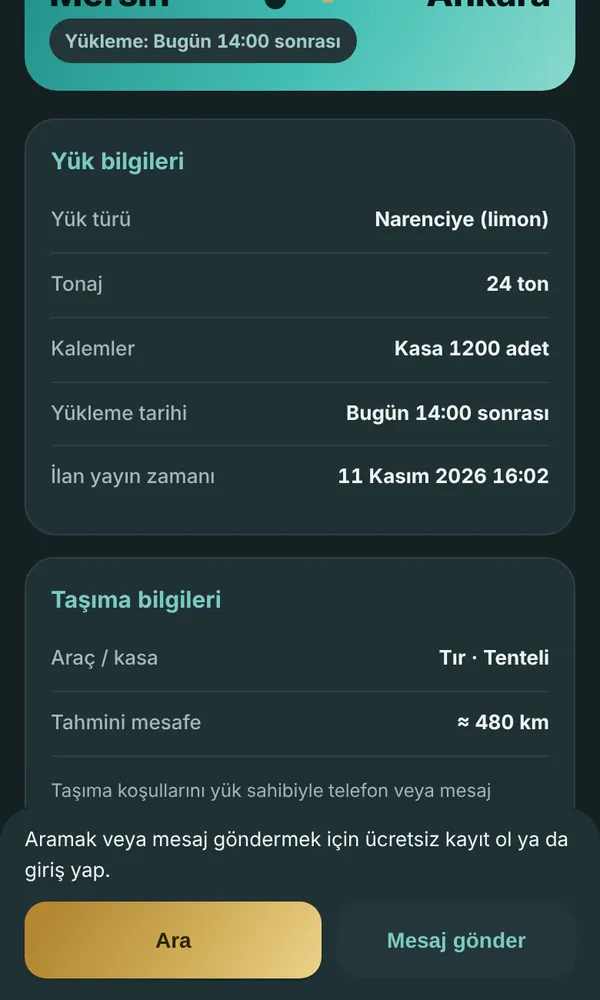
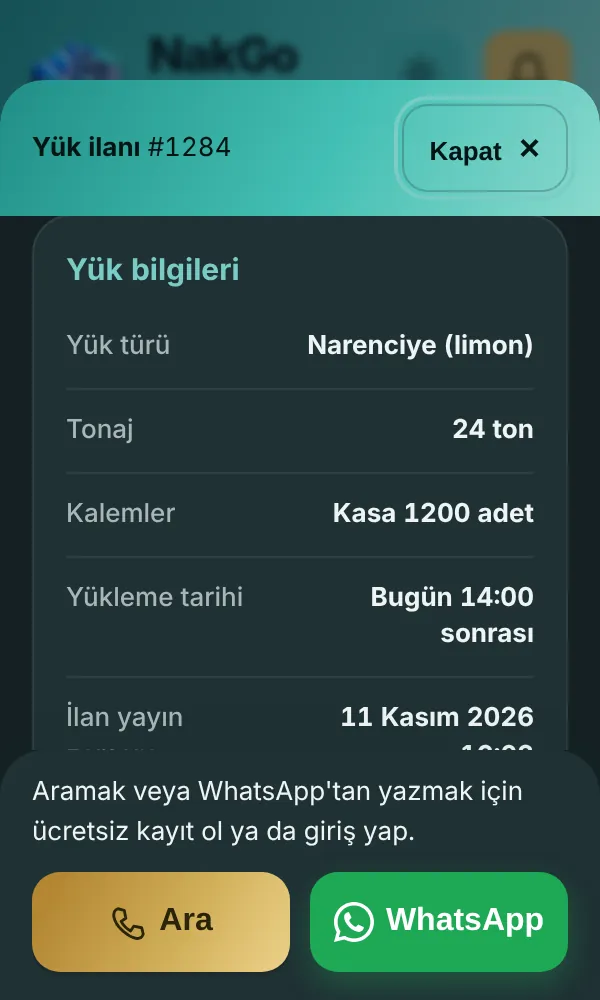
Describe Call and WhatsApp instead of retired in-app messaging (#74)
- Intro, help, account and listing texts no longer promise in-app
  messages; the privacy answer now says listing phones are shown only to
  signed-in users for Call and WhatsApp.
- Intro detail screenshots regenerated with the new contact buttons.

Claude-Session: https://claude.ai/code/session_01DguPnpwU1zxqg63RvGAajo

diff --git a/index.html b/index.html
@@ -2317,7 +2317,7 @@ const FI = '<svg width="16" height="16" viewBox="0 0 24 24" fill="none" stroke="
 const D = [[450, 480, 155, 700, 660, 940, 1130, 790, 740, 1100, 950], [580, 380, 540, 260, 490, 680, 320, 410, 780, 480], [330, 470, 580, 920, 1100, 830, 980, 1350, 850], [620, 520, 850, 1050, 700, 700, 1050, 800], [320, 550, 850, 640, 850, 1250, 480], [340, 640, 330, 700, 1050, 330], [330, 350, 760, 1100, 70], [460, 850, 1000, 340], [500, 720, 420], [340, 810], [1130]];
 
 // İlk açılış tanıtımı: [ekran görüntüsü, başlık, metin, görüntü açıklaması]. Görüntüler icons/onboarding içinde.
-const SL = [["list", "Yük bul, araç bul", "Yük sahipleri ilan verir, taşıyıcılar boş aracını duyurur. Aracın boş kalmasın, yükün beklemesin.", "İlanlar ekranı: rota arama ve Mersin–Ankara yük ilanı"], ["calc", "Giderini önceden planla", "Mesafeyi ve tüketimi gir; mazot ve yol giderini yola çıkmadan gör.", "Mazot ve Gider Hesaplama ekranı: tahmini toplam gider"], ["detail", "İlan sahibine doğrudan ulaş", "İlanlara giriş yapmadan göz at. Aramak ve mesaj göndermek için ücretsiz hesap aç.", "İlan detayı: taşıma bilgileri ile Ara ve Mesaj gönder düğmeleri"]];
+const SL = [["list", "Yük bul, araç bul", "Yük sahipleri ilan verir, taşıyıcılar boş aracını duyurur. Aracın boş kalmasın, yükün beklemesin.", "İlanlar ekranı: rota arama ve Mersin–Ankara yük ilanı"], ["calc", "Giderini önceden planla", "Mesafeyi ve tüketimi gir; mazot ve yol giderini yola çıkmadan gör.", "Mazot ve Gider Hesaplama ekranı: tahmini toplam gider"], ["detail", "İlan sahibine doğrudan ulaş", "İlanlara giriş yapmadan göz at. Aramak veya WhatsApp'tan yazmak için ücretsiz hesap aç.", "İlan detayı: taşıma bilgileri ile Ara ve WhatsApp düğmeleri"]];
 
 const PLANS = [{ id: "m", name: "Aylık", price: 299, days: 30 }, { id: "y", name: "Yıllık", price: 3099, days: 365 }];
 
@@ -2325,7 +2325,7 @@ const TTL = { load: 14, truck: 7, offer: 3 };
 
 const SUPPORT_MAIL = "destek@nakgolojistik.com";
 
-const FAQ = [["NakGo'yu kullanmak ücretli mi?", "İlanları görmek, kayıt olmak ve ilan vermek şu an ücretsizdir."], ["İlanları görmek için kayıt olmam gerekir mi?", "Hayır. Açık ilanları herkes görebilir. İlan sahibiyle iletişime geçmek ve ilan vermek için ücretsiz hesap gerekir."], ["İlan sahibiyle nasıl iletişime geçerim?", "Giriş yaptıktan sonra ilan detayındaki Mesaj gönder düğmesiyle uygulama içinden yazabilirsin."], ["İlanımı nasıl verir ve yönetirim?", "İlan ver sekmesinden yük veya boş araç ilanı oluştur. İlanlarını Profil'deki İlanlarım bölümünden düzenleyebilir veya kapatabilirsin."], ["Mazot ve Gider Hesaplama ne işe yarar?", "Mesafe, tüketim ve litre fiyatını girerek yolun yaklaşık giderini hesaplar. Sonuç tahminidir."], ["Şüpheli bir ilan görürsem ne yapmalıyım?", "İlan numarasıyla birlikte destek adresimize yaz; ilanı inceleriz."], ["Verilerim nerede tutuluyor?", "Hesap, ilan ve mesaj bilgilerin NakGo sunucularında saklanır. Telefon numaran ilanlarda herkese açık gösterilmez."]];
+const FAQ = [["NakGo'yu kullanmak ücretli mi?", "İlanları görmek, kayıt olmak ve ilan vermek şu an ücretsizdir."], ["İlanları görmek için kayıt olmam gerekir mi?", "Hayır. Açık ilanları herkes görebilir. İlan sahibiyle iletişime geçmek ve ilan vermek için ücretsiz hesap gerekir."], ["İlan sahibiyle nasıl iletişime geçerim?", "Giriş yaptıktan sonra ilan detayındaki Ara veya WhatsApp düğmesiyle ilan sahibine doğrudan ulaşabilirsin."], ["İlanımı nasıl verir ve yönetirim?", "İlan ver sekmesinden yük veya boş araç ilanı oluştur. İlanlarını Profil'deki İlanlarım bölümünden düzenleyebilir veya kapatabilirsin."], ["Mazot ve Gider Hesaplama ne işe yarar?", "Mesafe, tüketim ve litre fiyatını girerek yolun yaklaşık giderini hesaplar. Sonuç tahminidir."], ["Şüpheli bir ilan görürsem ne yapmalıyım?", "İlan numarasıyla birlikte destek adresimize yaz; ilanı inceleriz."], ["Verilerim nerede tutuluyor?", "Hesap ve ilan bilgilerin NakGo sunucularında saklanır. İlanındaki telefon numarası yalnızca giriş yapmış kullanıcılara Ara ve WhatsApp için gösterilir; misafirler göremez."]];
 
 /* Öne çıkan ilan ve boş araç ilanı: sabit fiyat listesi, saate göre değişmez. Ürün kuralları docs/product.md içinde. */
 const FEAT = { prices: { l: { 3: 19, 6: 32, 12: 61, 24: 99, 72: 267 }, t: { 3: 19, 6: 32, 12: 61, 24: 99, 72: 267 } } };
@@ -4373,7 +4373,7 @@ function openOnb() {
             $("#ob-next").focus({ preventScroll: true });
         }
         else {
-            el.innerHTML = `${top(i)}<div class="ob-body ob-roles"><h2 id="ob-title">Seni tanıyalım</h2><p>Ana sayfanı buna göre hazırlayalım. Sonra profilinden değiştirebilirsin.</p><button class="rolebtn" id="r-c"><span class="role-ic" aria-hidden="true"><svg width="26" height="26" viewBox="0 0 24 24" fill="none" stroke="currentColor" stroke-width="1.8" stroke-linecap="round" stroke-linejoin="round"><path d="M1 6h13v10H1zM14 10h4l3 3v3h-7"/><circle cx="5" cy="18" r="2"/><circle cx="17" cy="18" r="2"/></svg></span><span class="role-txt"><b>Taşıyıcıyım</b><span>Aracım var, yük arıyorum</span></span></button><button class="rolebtn" id="r-o"><span class="role-ic" aria-hidden="true"><svg width="26" height="26" viewBox="0 0 24 24" fill="none" stroke="currentColor" stroke-width="1.8" stroke-linecap="round" stroke-linejoin="round"><path d="M21 8l-9-5-9 5v8l9 5 9-5zM3 8l9 5 9-5M12 13v8"/></svg></span><span class="role-txt"><b>Yük sahibiyim</b><span>Taşıtacak yüküm var</span></span></button><p class="ob-note">Kayıt olmadan ilanlara göz atabilirsin. Aramak ve mesaj göndermek için ücretsiz hesap gerekir.</p></div>${dots(3)}`;
+            el.innerHTML = `${top(i)}<div class="ob-body ob-roles"><h2 id="ob-title">Seni tanıyalım</h2><p>Ana sayfanı buna göre hazırlayalım. Sonra profilinden değiştirebilirsin.</p><button class="rolebtn" id="r-c"><span class="role-ic" aria-hidden="true"><svg width="26" height="26" viewBox="0 0 24 24" fill="none" stroke="currentColor" stroke-width="1.8" stroke-linecap="round" stroke-linejoin="round"><path d="M1 6h13v10H1zM14 10h4l3 3v3h-7"/><circle cx="5" cy="18" r="2"/><circle cx="17" cy="18" r="2"/></svg></span><span class="role-txt"><b>Taşıyıcıyım</b><span>Aracım var, yük arıyorum</span></span></button><button class="rolebtn" id="r-o"><span class="role-ic" aria-hidden="true"><svg width="26" height="26" viewBox="0 0 24 24" fill="none" stroke="currentColor" stroke-width="1.8" stroke-linecap="round" stroke-linejoin="round"><path d="M21 8l-9-5-9 5v8l9 5 9-5zM3 8l9 5 9-5M12 13v8"/></svg></span><span class="role-txt"><b>Yük sahibiyim</b><span>Taşıtacak yüküm var</span></span></button><p class="ob-note">Kayıt olmadan ilanlara göz atabilirsin. Aramak veya WhatsApp'tan yazmak için ücretsiz hesap gerekir.</p></div>${dots(3)}`;
             $("#r-c").onclick = () => setRole("carrier", 1);
             $("#r-o").onclick = () => setRole("owner", 1);
         }
@@ -4520,7 +4520,7 @@ function authCardHTML() {
     const s=nakgoAuth.snapshot();
     if(!s.enabled)return '';
     return `<div class="load profile-info"><h3>NakGo hesabı · test</h3>
-        <p class="estimate-note">${nakgoMarket.active()?"Profilin, iletişim bilgilerin, ilanların, kayıtlı ilanların, rota alarmların ve mesajların hesabında saklanır. Uygulama şu an ücretsiz.":"Hesap bağlantısı gerçektir. Profil ve iletişim bilgileri hesabında saklanır. İlanlar, işler, mesajlar ve belgeler henüz cihazdaki demoya aittir."}</p>
+        <p class="estimate-note">${nakgoMarket.active()?"Profilin, iletişim bilgilerin, ilanların, kayıtlı ilanların ve rota alarmların hesabında saklanır. Uygulama şu an ücretsiz.":"Hesap bağlantısı gerçektir. Profil ve iletişim bilgileri hesabında saklanır. İlanlar, işler, mesajlar ve belgeler henüz cihazdaki demoya aittir."}</p>
         ${s.error?`<p role="status" class="estimate-note">${esc(s.error)}</p>`:''}
         ${!s.ready?'<p role="status">Hesap bağlantısı hazırlanıyor. Bağlantı kurulamazsa sayfayı yenile.</p>':s.user?`
             <p>${esc(s.profile?.display_name||'Hesabım')}</p><p class="estimate-note">${esc(s.user.email)}</p>
@@ -4571,7 +4571,7 @@ function openAuth(kind='signin') {
             <button type="button" class="auth-provider" disabled><svg viewBox="0 0 24 24" fill="currentColor" aria-hidden="true"><path d="M16.5 3c-1.4.1-3 1-3.8 2-.7.8-1.2 2-1 3.2 1.5.1 3-.7 3.9-1.8.8-.9 1.2-2.2.9-3.4ZM20 16.3c-.4 1-1 2.3-1.8 3.4-.8 1-1.7 2.1-3 2.1-1.2 0-1.6-.8-3.1-.8-1.6 0-2 .8-3.2.8-1.3 0-2.2-1.1-3-2.2C3.5 16.4 3 11.8 4.5 9.5c1-1.6 2.6-2.5 4.1-2.5 1.3 0 2.4.8 3.2.8.7 0 2-.9 3.5-.8 1.3.1 2.6.8 3.4 1.9-3 1.6-2.5 5.8 1.3 7.4Z"/></svg><span>Apple ile devam et</span><small>Yakında</small></button></div>
             <p class="auth-switch-copy">${kind==='signin'?'Henüz hesabın yok mu?':'Zaten hesabın var mı?'}</p><button class="btn auth-switch" id="${kind==='signin'?'account-register':'account-back'}">${kind==='signin'?'Kayıt ol':'Giriş yap'}</button>`:
             '<p class="auth-switch-copy">Hesabına dönmeye hazır mısın?</p><button class="btn auth-switch" id="account-back">Giriş yap</button>'}
-            <p class="auth-preview-note">Test sürümü · E-posta ve Google ile giriş açık.<br>Test hesabınla ilan ve mesajlarını kullanabilirsin.</p>
+            <p class="auth-preview-note">Test sürümü · E-posta ve Google ile giriş açık.<br>Test hesabınla ilan verebilir, ilanlara Ara ve WhatsApp ile ulaşabilirsin.</p>
         </section></div>`:'<button class="btn alt" id="close">Kapat</button>'}`;
     const form=$('#account-form'), feedback=$('#account-feedback'), button=$('#account-submit');
     const google=$('#account-google');
@@ -5958,7 +5958,7 @@ function openLoad(id) {
         ${!cloud && !nakgoMarket.locked() ? '<p class="demo-note"><b>Demo modu</b> · Bu ekrandaki örnek ilanlar ve talepler deneme amaçlıdır.</p>' : ""}
         ${imgOk(l.img) ? `<img class="ph" src="${l.img}" alt="Yük fotoğrafı">` : ""}
         <section class="detail-group"><h2>Yük bilgileri</h2>${kv([["Yük türü", esc(l.cargo)], ["Tonaj", esc(l.ton) + " ton"], ...(Array.isArray(l.items) && l.items.length ? [["Kalemler", itemsTxt(l)]] : []), ["Yükleme tarihi", esc(dateLabel(l))], ...(postedAt(l,true) ? [["İlan yayın zamanı", esc(postedAt(l,true))]] : [])])}${l.note ? `<p class="detail-note">${esc(l.note)}</p>` : ""}</section>
-        <section class="detail-group"><h2>Taşıma bilgileri</h2>${kv([["Araç / kasa", esc(l.veh + " · " + (l.body || "Belirtilmedi"))], ["Tahmini mesafe", km ? "≈ " + km + " km" : "Belirtilmedi"]])}<p class="estimate-note">Taşıma koşullarını yük sahibiyle telefon veya mesaj üzerinden görüşebilirsin.</p></section>
+        <section class="detail-group"><h2>Taşıma bilgileri</h2>${kv([["Araç / kasa", esc(l.veh + " · " + (l.body || "Belirtilmedi"))], ["Tahmini mesafe", km ? "≈ " + km + " km" : "Belirtilmedi"]])}<p class="estimate-note">Taşıma koşullarını yük sahibiyle telefonda veya WhatsApp'ta görüşebilirsin.</p></section>
         <section class="detail-group detail-route"><h2>Güzergâh</h2>${routeMapHTML(l.from, l.to)}</section>
         <section class="detail-group"><h2>Yük sahibi</h2><div class="owner-summary"><span class="owner-avatar" aria-hidden="true">${esc(String(l.owner || (l.uid ? nm(l.uid) : "Yük sahibi")).charAt(0))}</span><div><b>${esc(l.owner || (l.uid ? nm(l.uid) : "Bireysel"))}</b></div></div><div class="detail-actions"><button class="chip" id="pf">Profili gör</button></div></section>
         <div class="detail-actions"><button class="chip" id="sh">Paylaş</button><button class="chip" id="rp">Şikayet et</button>${l.uid && l.uid !== me && !l.mine ? '<button class="chip" id="bk2">Engelle</button>' : ""}</div>

diff --git a/src/js/features/account.js b/src/js/features/account.js
@@ -138,7 +138,7 @@ function openOnb() {
             $("#ob-next").focus({ preventScroll: true });
         }
         else {
-            el.innerHTML = `${top(i)}<div class="ob-body ob-roles"><h2 id="ob-title">Seni tanıyalım</h2><p>Ana sayfanı buna göre hazırlayalım. Sonra profilinden değiştirebilirsin.</p><button class="rolebtn" id="r-c"><span class="role-ic" aria-hidden="true"><svg width="26" height="26" viewBox="0 0 24 24" fill="none" stroke="currentColor" stroke-width="1.8" stroke-linecap="round" stroke-linejoin="round"><path d="M1 6h13v10H1zM14 10h4l3 3v3h-7"/><circle cx="5" cy="18" r="2"/><circle cx="17" cy="18" r="2"/></svg></span><span class="role-txt"><b>Taşıyıcıyım</b><span>Aracım var, yük arıyorum</span></span></button><button class="rolebtn" id="r-o"><span class="role-ic" aria-hidden="true"><svg width="26" height="26" viewBox="0 0 24 24" fill="none" stroke="currentColor" stroke-width="1.8" stroke-linecap="round" stroke-linejoin="round"><path d="M21 8l-9-5-9 5v8l9 5 9-5zM3 8l9 5 9-5M12 13v8"/></svg></span><span class="role-txt"><b>Yük sahibiyim</b><span>Taşıtacak yüküm var</span></span></button><p class="ob-note">Kayıt olmadan ilanlara göz atabilirsin. Aramak ve mesaj göndermek için ücretsiz hesap gerekir.</p></div>${dots(3)}`;
+            el.innerHTML = `${top(i)}<div class="ob-body ob-roles"><h2 id="ob-title">Seni tanıyalım</h2><p>Ana sayfanı buna göre hazırlayalım. Sonra profilinden değiştirebilirsin.</p><button class="rolebtn" id="r-c"><span class="role-ic" aria-hidden="true"><svg width="26" height="26" viewBox="0 0 24 24" fill="none" stroke="currentColor" stroke-width="1.8" stroke-linecap="round" stroke-linejoin="round"><path d="M1 6h13v10H1zM14 10h4l3 3v3h-7"/><circle cx="5" cy="18" r="2"/><circle cx="17" cy="18" r="2"/></svg></span><span class="role-txt"><b>Taşıyıcıyım</b><span>Aracım var, yük arıyorum</span></span></button><button class="rolebtn" id="r-o"><span class="role-ic" aria-hidden="true"><svg width="26" height="26" viewBox="0 0 24 24" fill="none" stroke="currentColor" stroke-width="1.8" stroke-linecap="round" stroke-linejoin="round"><path d="M21 8l-9-5-9 5v8l9 5 9-5zM3 8l9 5 9-5M12 13v8"/></svg></span><span class="role-txt"><b>Yük sahibiyim</b><span>Taşıtacak yüküm var</span></span></button><p class="ob-note">Kayıt olmadan ilanlara göz atabilirsin. Aramak veya WhatsApp'tan yazmak için ücretsiz hesap gerekir.</p></div>${dots(3)}`;
             $("#r-c").onclick = () => setRole("carrier", 1);
             $("#r-o").onclick = () => setRole("owner", 1);
         }
@@ -285,7 +285,7 @@ function authCardHTML() {
     const s=nakgoAuth.snapshot();
     if(!s.enabled)return '';
     return `<div class="load profile-info"><h3>NakGo hesabı · test</h3>
-        <p class="estimate-note">${nakgoMarket.active()?"Profilin, iletişim bilgilerin, ilanların, kayıtlı ilanların, rota alarmların ve mesajların hesabında saklanır. Uygulama şu an ücretsiz.":"Hesap bağlantısı gerçektir. Profil ve iletişim bilgileri hesabında saklanır. İlanlar, işler, mesajlar ve belgeler henüz cihazdaki demoya aittir."}</p>
+        <p class="estimate-note">${nakgoMarket.active()?"Profilin, iletişim bilgilerin, ilanların, kayıtlı ilanların ve rota alarmların hesabında saklanır. Uygulama şu an ücretsiz.":"Hesap bağlantısı gerçektir. Profil ve iletişim bilgileri hesabında saklanır. İlanlar, işler, mesajlar ve belgeler henüz cihazdaki demoya aittir."}</p>
         ${s.error?`<p role="status" class="estimate-note">${esc(s.error)}</p>`:''}
         ${!s.ready?'<p role="status">Hesap bağlantısı hazırlanıyor. Bağlantı kurulamazsa sayfayı yenile.</p>':s.user?`
             <p>${esc(s.profile?.display_name||'Hesabım')}</p><p class="estimate-note">${esc(s.user.email)}</p>
@@ -336,7 +336,7 @@ function openAuth(kind='signin') {
             <button type="button" class="auth-provider" disabled><svg viewBox="0 0 24 24" fill="currentColor" aria-hidden="true"><path d="M16.5 3c-1.4.1-3 1-3.8 2-.7.8-1.2 2-1 3.2 1.5.1 3-.7 3.9-1.8.8-.9 1.2-2.2.9-3.4ZM20 16.3c-.4 1-1 2.3-1.8 3.4-.8 1-1.7 2.1-3 2.1-1.2 0-1.6-.8-3.1-.8-1.6 0-2 .8-3.2.8-1.3 0-2.2-1.1-3-2.2C3.5 16.4 3 11.8 4.5 9.5c1-1.6 2.6-2.5 4.1-2.5 1.3 0 2.4.8 3.2.8.7 0 2-.9 3.5-.8 1.3.1 2.6.8 3.4 1.9-3 1.6-2.5 5.8 1.3 7.4Z"/></svg><span>Apple ile devam et</span><small>Yakında</small></button></div>
             <p class="auth-switch-copy">${kind==='signin'?'Henüz hesabın yok mu?':'Zaten hesabın var mı?'}</p><button class="btn auth-switch" id="${kind==='signin'?'account-register':'account-back'}">${kind==='signin'?'Kayıt ol':'Giriş yap'}</button>`:
             '<p class="auth-switch-copy">Hesabına dönmeye hazır mısın?</p><button class="btn auth-switch" id="account-back">Giriş yap</button>'}
-            <p class="auth-preview-note">Test sürümü · E-posta ve Google ile giriş açık.<br>Test hesabınla ilan ve mesajlarını kullanabilirsin.</p>
+            <p class="auth-preview-note">Test sürümü · E-posta ve Google ile giriş açık.<br>Test hesabınla ilan verebilir, ilanlara Ara ve WhatsApp ile ulaşabilirsin.</p>
         </section></div>`:'<button class="btn alt" id="close">Kapat</button>'}`;
     const form=$('#account-form'), feedback=$('#account-feedback'), button=$('#account-submit');
     const google=$('#account-google');

diff --git a/src/js/config.js b/src/js/config.js
@@ -23,7 +23,7 @@ const FI = '<svg width="16" height="16" viewBox="0 0 24 24" fill="none" stroke="
 const D = [[450, 480, 155, 700, 660, 940, 1130, 790, 740, 1100, 950], [580, 380, 540, 260, 490, 680, 320, 410, 780, 480], [330, 470, 580, 920, 1100, 830, 980, 1350, 850], [620, 520, 850, 1050, 700, 700, 1050, 800], [320, 550, 850, 640, 850, 1250, 480], [340, 640, 330, 700, 1050, 330], [330, 350, 760, 1100, 70], [460, 850, 1000, 340], [500, 720, 420], [340, 810], [1130]];
 
 // İlk açılış tanıtımı: [ekran görüntüsü, başlık, metin, görüntü açıklaması]. Görüntüler icons/onboarding içinde.
-const SL = [["list", "Yük bul, araç bul", "Yük sahipleri ilan verir, taşıyıcılar boş aracını duyurur. Aracın boş kalmasın, yükün beklemesin.", "İlanlar ekranı: rota arama ve Mersin–Ankara yük ilanı"], ["calc", "Giderini önceden planla", "Mesafeyi ve tüketimi gir; mazot ve yol giderini yola çıkmadan gör.", "Mazot ve Gider Hesaplama ekranı: tahmini toplam gider"], ["detail", "İlan sahibine doğrudan ulaş", "İlanlara giriş yapmadan göz at. Aramak ve mesaj göndermek için ücretsiz hesap aç.", "İlan detayı: taşıma bilgileri ile Ara ve Mesaj gönder düğmeleri"]];
+const SL = [["list", "Yük bul, araç bul", "Yük sahipleri ilan verir, taşıyıcılar boş aracını duyurur. Aracın boş kalmasın, yükün beklemesin.", "İlanlar ekranı: rota arama ve Mersin–Ankara yük ilanı"], ["calc", "Giderini önceden planla", "Mesafeyi ve tüketimi gir; mazot ve yol giderini yola çıkmadan gör.", "Mazot ve Gider Hesaplama ekranı: tahmini toplam gider"], ["detail", "İlan sahibine doğrudan ulaş", "İlanlara giriş yapmadan göz at. Aramak veya WhatsApp'tan yazmak için ücretsiz hesap aç.", "İlan detayı: taşıma bilgileri ile Ara ve WhatsApp düğmeleri"]];
 
 const PLANS = [{ id: "m", name: "Aylık", price: 299, days: 30 }, { id: "y", name: "Yıllık", price: 3099, days: 365 }];
 
@@ -31,7 +31,7 @@ const TTL = { load: 14, truck: 7, offer: 3 };
 
 const SUPPORT_MAIL = "destek@nakgolojistik.com";
 
-const FAQ = [["NakGo'yu kullanmak ücretli mi?", "İlanları görmek, kayıt olmak ve ilan vermek şu an ücretsizdir."], ["İlanları görmek için kayıt olmam gerekir mi?", "Hayır. Açık ilanları herkes görebilir. İlan sahibiyle iletişime geçmek ve ilan vermek için ücretsiz hesap gerekir."], ["İlan sahibiyle nasıl iletişime geçerim?", "Giriş yaptıktan sonra ilan detayındaki Mesaj gönder düğmesiyle uygulama içinden yazabilirsin."], ["İlanımı nasıl verir ve yönetirim?", "İlan ver sekmesinden yük veya boş araç ilanı oluştur. İlanlarını Profil'deki İlanlarım bölümünden düzenleyebilir veya kapatabilirsin."], ["Mazot ve Gider Hesaplama ne işe yarar?", "Mesafe, tüketim ve litre fiyatını girerek yolun yaklaşık giderini hesaplar. Sonuç tahminidir."], ["Şüpheli bir ilan görürsem ne yapmalıyım?", "İlan numarasıyla birlikte destek adresimize yaz; ilanı inceleriz."], ["Verilerim nerede tutuluyor?", "Hesap, ilan ve mesaj bilgilerin NakGo sunucularında saklanır. Telefon numaran ilanlarda herkese açık gösterilmez."]];
+const FAQ = [["NakGo'yu kullanmak ücretli mi?", "İlanları görmek, kayıt olmak ve ilan vermek şu an ücretsizdir."], ["İlanları görmek için kayıt olmam gerekir mi?", "Hayır. Açık ilanları herkes görebilir. İlan sahibiyle iletişime geçmek ve ilan vermek için ücretsiz hesap gerekir."], ["İlan sahibiyle nasıl iletişime geçerim?", "Giriş yaptıktan sonra ilan detayındaki Ara veya WhatsApp düğmesiyle ilan sahibine doğrudan ulaşabilirsin."], ["İlanımı nasıl verir ve yönetirim?", "İlan ver sekmesinden yük veya boş araç ilanı oluştur. İlanlarını Profil'deki İlanlarım bölümünden düzenleyebilir veya kapatabilirsin."], ["Mazot ve Gider Hesaplama ne işe yarar?", "Mesafe, tüketim ve litre fiyatını girerek yolun yaklaşık giderini hesaplar. Sonuç tahminidir."], ["Şüpheli bir ilan görürsem ne yapmalıyım?", "İlan numarasıyla birlikte destek adresimize yaz; ilanı inceleriz."], ["Verilerim nerede tutuluyor?", "Hesap ve ilan bilgilerin NakGo sunucularında saklanır. İlanındaki telefon numarası yalnızca giriş yapmış kullanıcılara Ara ve WhatsApp için gösterilir; misafirler göremez."]];
 
 /* Öne çıkan ilan ve boş araç ilanı: sabit fiyat listesi, saate göre değişmez. Ürün kuralları docs/product.md içinde. */
 const FEAT = { prices: { l: { 3: 19, 6: 32, 12: 61, 24: 99, 72: 267 }, t: { 3: 19, 6: 32, 12: 61, 24: 99, 72: 267 } } };

diff --git a/src/js/screens/details.js b/src/js/screens/details.js
@@ -30,7 +30,7 @@ function openLoad(id) {
         ${!cloud && !nakgoMarket.locked() ? '<p class="demo-note"><b>Demo modu</b> · Bu ekrandaki örnek ilanlar ve talepler deneme amaçlıdır.</p>' : ""}
         ${imgOk(l.img) ? `<img class="ph" src="${l.img}" alt="Yük fotoğrafı">` : ""}
         <section class="detail-group"><h2>Yük bilgileri</h2>${kv([["Yük türü", esc(l.cargo)], ["Tonaj", esc(l.ton) + " ton"], ...(Array.isArray(l.items) && l.items.length ? [["Kalemler", itemsTxt(l)]] : []), ["Yükleme tarihi", esc(dateLabel(l))], ...(postedAt(l,true) ? [["İlan yayın zamanı", esc(postedAt(l,true))]] : [])])}${l.note ? `<p class="detail-note">${esc(l.note)}</p>` : ""}</section>
-        <section class="detail-group"><h2>Taşıma bilgileri</h2>${kv([["Araç / kasa", esc(l.veh + " · " + (l.body || "Belirtilmedi"))], ["Tahmini mesafe", km ? "≈ " + km + " km" : "Belirtilmedi"]])}<p class="estimate-note">Taşıma koşullarını yük sahibiyle telefon veya mesaj üzerinden görüşebilirsin.</p></section>
+        <section class="detail-group"><h2>Taşıma bilgileri</h2>${kv([["Araç / kasa", esc(l.veh + " · " + (l.body || "Belirtilmedi"))], ["Tahmini mesafe", km ? "≈ " + km + " km" : "Belirtilmedi"]])}<p class="estimate-note">Taşıma koşullarını yük sahibiyle telefonda veya WhatsApp'ta görüşebilirsin.</p></section>
         <section class="detail-group detail-route"><h2>Güzergâh</h2>${routeMapHTML(l.from, l.to)}</section>
         <section class="detail-group"><h2>Yük sahibi</h2><div class="owner-summary"><span class="owner-avatar" aria-hidden="true">${esc(String(l.owner || (l.uid ? nm(l.uid) : "Yük sahibi")).charAt(0))}</span><div><b>${esc(l.owner || (l.uid ? nm(l.uid) : "Bireysel"))}</b></div></div><div class="detail-actions"><button class="chip" id="pf">Profili gör</button></div></section>
         <div class="detail-actions"><button class="chip" id="sh">Paylaş</button><button class="chip" id="rp">Şikayet et</button>${l.uid && l.uid !== me && !l.mine ? '<button class="chip" id="bk2">Engelle</button>' : ""}</div>

diff --git a/sw.js b/sw.js
@@ -1,5 +1,5 @@
 /* NakGo: yalnızca uygulama kabuğu önbelleğe alınır; kişisel veri/harita istekleri alınmaz. */
-const V = "nakgo-v54-listing-contact";
+const V = "nakgo-v55-no-messaging-copy";
 const ASSETS = ["./", "index.html", "manifest.webmanifest", "icons/icon.svg", "icons/icon-192.png", "icons/icon-512.png", "icons/icon-maskable-512.png", "icons/apple-touch-icon.png", "icons/brand-logo.png", "icons/header-logo.png"];
 self.addEventListener("install", e => { e.waitUntil(caches.open(V).then(c=>c.addAll(ASSETS)).then(()=>self.skipWaiting())); });
 self.addEventListener("activate", e => { e.waitUntil(caches.keys().then(keys=>Promise.all(keys.filter(k=>k.startsWith("nakgo-")&&k!==V).map(k=>caches.delete(k)))).then(()=>self.clients.claim())); });
